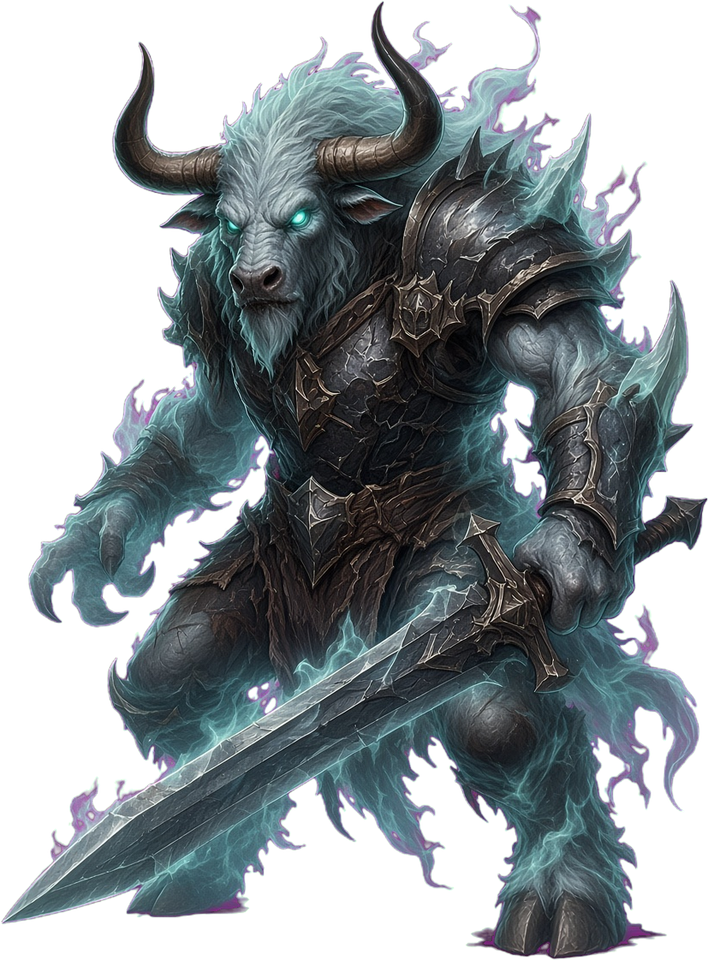
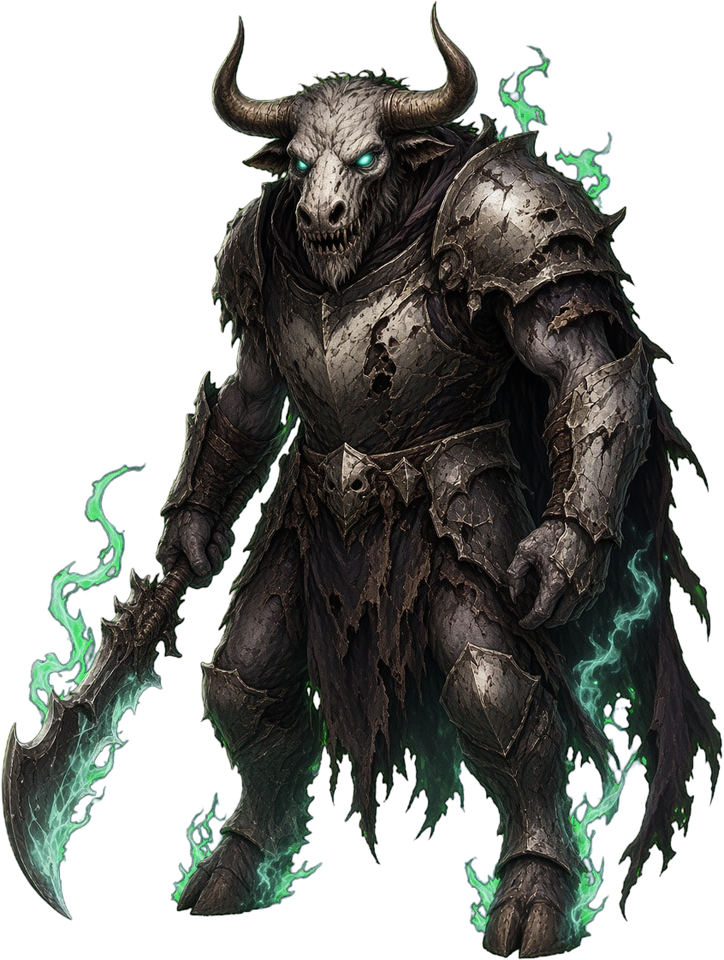
美术：maps-sq-mir3 重画第6组 8 张，取消复用

diff --git a/docs/art-requests.md b/docs/art-requests.md
@@ -899,3 +899,19 @@ thunder_sword 雷霆剑、break_strike 破击剑法、shield_break 破盾斩、v
 | sq_tieyi_full.png | 960x695 | 铁翼魔 | 新画（取代原复用图） | 据描述：巨蝙蝠；铁板翼为新设计 |
 | sq_yaolishi_full.png | 722x960 | 妖力士 | 新画（取代原复用图） | 据描述：一臂粗大；独角、锁链为新设计 |
 | sq_youling_bug_full.png | 960x746 | 幽灵虫 | 新画（取代原复用图） | 未查到/推测：按名称画幽灵螳蜂（重画1次） |
+
+
+## art/maps-sq-mir3 重画·第6组（8 张，取消复用）
+
+用户要求不再复用小怪素材，以下 id 的复制图都换成了各自的新立绘，外形和配色都与原图明显不同。路径：`public/assets/portraits/<id>_full.png`。预览：`docs/art-gap-preview/sq_mir3_redo6.jpg`。
+
+| 文件 | 尺寸 | 名称 | 状态 | 依据 |
+|---|---|---|---|---|
+| m3_panye_fire_full.png | 728x960 | 潘夜火魔 | 新画（取代原复用图） | 据描述：黄甲、偃月刀；火焰为新设计（牛形只画了牛角，存疑） |
+| m3_panye_wind_full.png | 732x960 | 潘夜风魔 | 新画（取代原复用图） | 据描述：黑甲、长柄斧；风旋为新设计（牛形只画了牛角，存疑） |
+| m3_panye_ice_full.png | 726x960 | 潘夜冰魔 | 新画（取代原复用图） | 据描述：蓝甲、双刃斧×2（牛形只画了牛角，存疑） |
+| m3_panye_cloud_full.png | 727x960 | 潘夜云魔 | 新画（取代原复用图） | 据描述：绿甲、双锤（牛形只画了角，存疑） |
+| m3_panye_warrior_full.png | 753x960 | 潘夜战士 | 新画（取代原复用图） | 据描述：牛形战士；狼牙棒、圆盾为推测 |
+| m3_panye_left_full.png | 629x960 | 潘夜左护卫 | 新画（取代原复用图） | 部分推测：黑太阳灵气、施法；法袍体型为推测 |
+| m3_panye_right_full.png | 551x960 | 潘夜右护卫 | 新画（取代原复用图） | 部分推测：黑月亮灵气、施法；冰雾、体型为推测 |
+| m3_panye_ghost_full.png | 724x960 | 潘夜鬼将 | 新画（取代原复用图） | 据描述：与潘夜战士相似的牛形；亡灵化、长刃为推测 |
